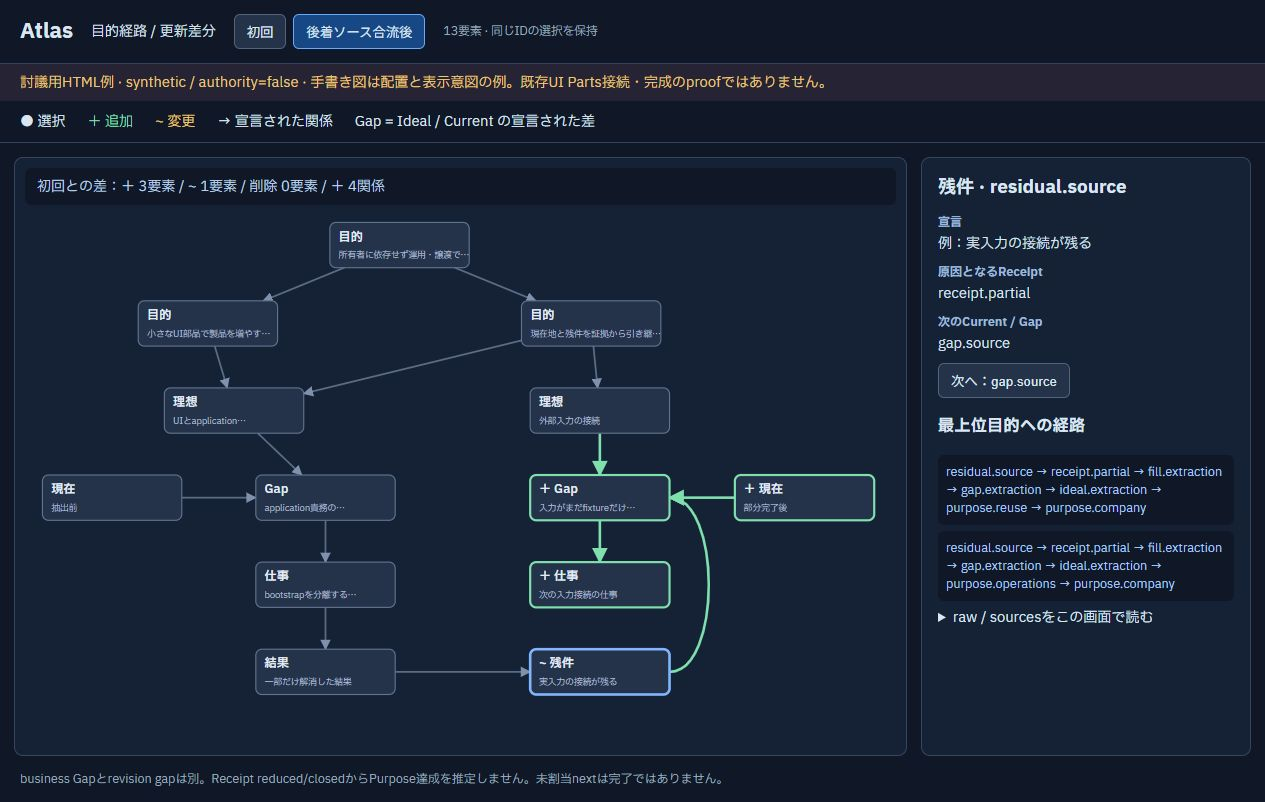
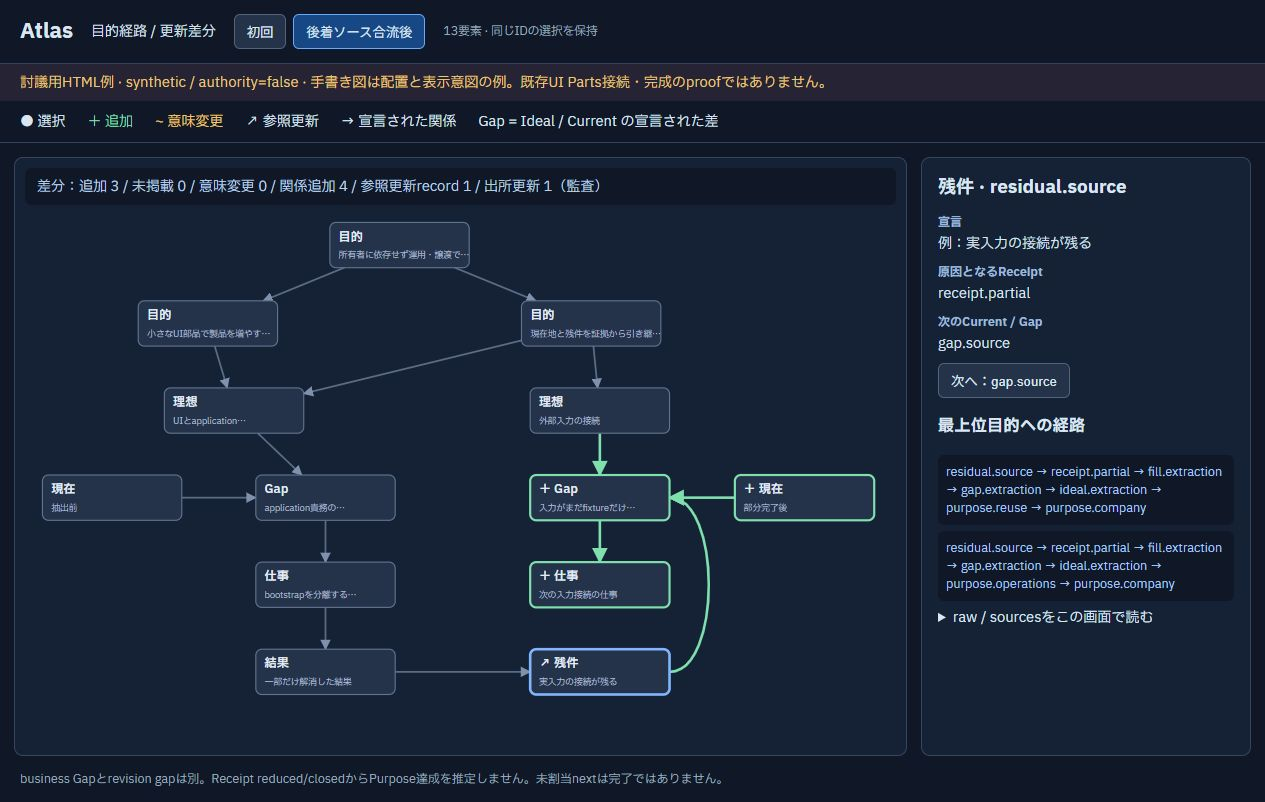
docs(atlas): distinguish meaning, relation and provenance changes in visual example

Changed region(s): [[0.0308, 0.2182, 0.4933, 0.2494], [0.1233, 0.1247, 0.5549, 0.1559], [0.4316, 0.8105, 0.4625, 0.8416]]

diff --git a/docs/proposals/atlas-purpose-ui-20261007/view.example.html b/docs/proposals/atlas-purpose-ui-20261007/view.example.html
@@ -1,10 +1,10 @@
 <!doctype html><html lang="ja"><meta charset="utf-8"><meta name="viewport" content="width=device-width"><title>Atlas · Purpose経路と差分の議論例</title>
 <style>
-*{box-sizing:border-box}body{margin:0;background:#101827;color:#dce6f2;font:14px/1.5 system-ui,sans-serif}header{padding:14px 20px;border-bottom:1px solid #34445a;display:flex;align-items:center;gap:18px}h1{font-size:21px;margin:0}button{color:inherit;background:#24334a;border:1px solid #53647a;border-radius:6px;padding:7px 12px;cursor:pointer}button[aria-pressed=true]{background:#174785;border-color:#69a9fb}small,.muted{color:#9bacbf}.notice{padding:8px 20px;color:#ebc97b;background:#262334}.legend{padding:10px 20px;display:flex;gap:22px;border-bottom:1px solid #34445a}.add{color:#7fdfad}.change{color:#f2cb73}.layout{display:grid;grid-template-columns:minmax(650px,1fr) 330px;gap:14px;padding:14px}.stage,aside{background:#152135;border:1px solid #35465e;border-radius:9px}.stage{padding:10px}svg{width:100%;display:block}aside{padding:16px;min-width:0}h2{font-size:18px;margin:0 0 12px}.field{margin:9px 0}.field b{display:block;color:#9eb9da;font-size:12px}.field p{margin:2px 0;overflow-wrap:anywhere}.path{font-size:12px;color:#a9ccff;padding:8px;background:#101827;border-radius:6px;margin:6px 0}pre{white-space:pre-wrap;overflow-wrap:anywhere;font-size:11px;max-height:170px;overflow:auto;background:#0b1320;padding:8px}.edge{fill:none;stroke:#5b6d85;stroke-width:2}.edge.added{stroke:#7fdfad;stroke-width:3}.node rect{fill:#24334a;stroke:#60738f;stroke-width:1.3}.node.added rect{stroke:#7fdfad;stroke-width:2.5}.node.changed rect{stroke:#f2cb73;stroke-width:2.5}.node.selected rect{stroke:#81b6ff;stroke-width:3}.node text{fill:#e3edf8;pointer-events:none}.node{cursor:pointer}.kind{font-size:14px;font-weight:600}.id{font-size:10px;fill:#afbed0!important}.tag{font-size:11px;fill:#7fdfad!important}.delta{padding:8px 12px;color:#bed1e8;background:#101827;border-radius:6px}.row{display:flex;gap:7px;flex-wrap:wrap}footer{padding:0 20px 14px;color:#9bacbf;font-size:12px}@media(max-width:1000px){.layout{grid-template-columns:1fr}.stage{min-width:0}}
+*{box-sizing:border-box}body{margin:0;background:#101827;color:#dce6f2;font:14px/1.5 system-ui,sans-serif}header{padding:14px 20px;border-bottom:1px solid #34445a;display:flex;align-items:center;gap:18px}h1{font-size:21px;margin:0}button{color:inherit;background:#24334a;border:1px solid #53647a;border-radius:6px;padding:7px 12px;cursor:pointer}button[aria-pressed=true]{background:#174785;border-color:#69a9fb}small,.muted{color:#9bacbf}.notice{padding:8px 20px;color:#ebc97b;background:#262334}.legend{padding:10px 20px;display:flex;gap:22px;border-bottom:1px solid #34445a}.add{color:#7fdfad}.change{color:#f2cb73}.layout{display:grid;grid-template-columns:minmax(650px,1fr) 330px;gap:14px;padding:14px}.stage,aside{background:#152135;border:1px solid #35465e;border-radius:9px}.stage{padding:10px}svg{width:100%;display:block}aside{padding:16px;min-width:0}h2{font-size:18px;margin:0 0 12px}.field{margin:9px 0}.field b{display:block;color:#9eb9da;font-size:12px}.field p{margin:2px 0;overflow-wrap:anywhere}.path{font-size:12px;color:#a9ccff;padding:8px;background:#101827;border-radius:6px;margin:6px 0}pre{white-space:pre-wrap;overflow-wrap:anywhere;font-size:11px;max-height:170px;overflow:auto;background:#0b1320;padding:8px}.edge{fill:none;stroke:#5b6d85;stroke-width:2}.edge.added{stroke:#7fdfad;stroke-width:3}.node rect{fill:#24334a;stroke:#60738f;stroke-width:1.3}.node.added rect{stroke:#7fdfad;stroke-width:2.5}.node.changed rect{stroke:#f2cb73;stroke-width:2.5}.node.relation rect{stroke:#c4b5fd;stroke-width:2.5}.node.selected rect{stroke:#81b6ff;stroke-width:3}.node text{fill:#e3edf8;pointer-events:none}.node{cursor:pointer}.kind{font-size:14px;font-weight:600}.id{font-size:10px;fill:#afbed0!important}.tag{font-size:11px;fill:#7fdfad!important}.delta{padding:8px 12px;color:#bed1e8;background:#101827;border-radius:6px}.row{display:flex;gap:7px;flex-wrap:wrap}footer{padding:0 20px 14px;color:#9bacbf;font-size:12px}@media(max-width:1000px){.layout{grid-template-columns:1fr}.stage{min-width:0}}
 </style>
 <header><h1>Atlas</h1><span>目的経路 / 更新差分</span><div class="row"><button id="before" aria-pressed="true">初回</button><button id="after" aria-pressed="false">後着ソース合流後</button></div><small id="state"></small></header>
 <div class="notice">討議用HTML例 · synthetic / authority=false · 手書き図は配置と表示意図の例。既存UI Parts接続・完成のproofではありません。</div>
-<div class="legend"><span>● 選択</span><span class="add">＋ 追加</span><span class="change">~ 変更</span><span>→ 宣言された関係</span><span>Gap = Ideal / Current の宣言された差</span></div>
+<div class="legend"><span>● 選択</span><span class="add">＋ 追加</span><span class="change">~ 意味変更</span><span>↗ 参照更新</span><span>→ 宣言された関係</span><span>Gap = Ideal / Current の宣言された差</span></div>
 <div class="layout"><section class="stage"><div id="delta" class="delta"></div><svg viewBox="0 0 1000 620" aria-label="Purpose closureの関係図"><defs><marker id="arrow" viewBox="0 0 10 10" refX="9" refY="5" markerWidth="6" markerHeight="6" orient="auto-start-reverse"><path d="M0,0 L10,5 L0,10" fill="#7f91ac"/></marker><marker id="new-arrow" viewBox="0 0 10 10" refX="9" refY="5" markerWidth="6" markerHeight="6" orient="auto-start-reverse"><path d="M0,0 L10,5 L0,10" fill="#7fdfad"/></marker></defs><g id="edges"></g><g id="nodes"></g></svg></section><aside><h2 id="selected"></h2><div id="fields"></div><h3>最上位目的への経路</h3><div id="paths"></div><details><summary>raw / sourcesをこの画面で読む</summary><pre id="raw"></pre></details></aside></div>
 <footer>business Gapとrevision gapは別。Receipt reduced/closedからPurpose達成を推定しません。未割当nextは完了ではありません。</footer>
 <script>
@@ -14,13 +14,15 @@ const coords={'purpose.company':[350,20],'purpose.reuse':[130,110],'purpose.oper
 const ns='http://www.w3.org/2000/svg',w=160,h=52;let mode=0,selected='residual.source';
 const byId=rows=>new Map(rows.map(r=>[r.id,r]));
 const relations=rows=>{const e=[];for(const n of rows){if(n.kind==='purpose')for(const p of n.parents)e.push([p,n.id,'parent']);if(n.kind==='ideal')for(const p of n.purposes)e.push([p,n.id,'ideal']);if(n.kind==='gap'){e.push([n.current,n.id,'current'],[n.ideal,n.id,'gap'])}if(n.kind==='fill')for(const g of n.gaps)e.push([g,n.id,'fill']);if(n.kind==='receipt')e.push([n.fill,n.id,'receipt']);if(n.kind==='residual'){e.push([n.receipt,n.id,'residual']);for(const q of n.next)e.push([n.id,q,'next'])}}return e;};
+const refFields={purpose:['parents'],ideal:['purposes'],current:[],gap:['current','ideal'],fill:['gaps'],receipt:['fill'],residual:['receipt','next']};const meaning=n=>JSON.stringify(Object.fromEntries(Object.entries(n).filter(([k])=>k!=='sources'&&!refFields[n.kind].includes(k))));const refs=n=>JSON.stringify(refFields[n.kind].map(k=>[k,n[k]]));
 const key=e=>JSON.stringify(e),before=byId(snapshots[0]),after=byId(snapshots[1]),oldEdges=new Set(relations(snapshots[0]).map(key));
-const added=new Set([...after.keys()].filter(id=>!before.has(id))),removed=new Set([...before.keys()].filter(id=>!after.has(id))),changed=new Set([...after.keys()].filter(id=>before.has(id)&&JSON.stringify(after.get(id))!==JSON.stringify(before.get(id))));
+const relChanged=new Set([...after.keys()].filter(id=>before.has(id)&&refs(after.get(id))!==refs(before.get(id))));const sourceChanged=new Set([...after.keys()].filter(id=>before.has(id)&&JSON.stringify(after.get(id).sources)!==JSON.stringify(before.get(id).sources)));
+const added=new Set([...after.keys()].filter(id=>!before.has(id))),removed=new Set([...before.keys()].filter(id=>!after.has(id))),changed=new Set([...after.keys()].filter(id=>before.has(id)&&meaning(after.get(id))!==meaning(before.get(id))));
 const make=(tag,attrs,parent)=>{const e=document.createElementNS(ns,tag);for(const[k,v]of Object.entries(attrs))e.setAttribute(k,v);parent.append(e);return e};
 function field(title,value){const box=document.createElement('div');box.className='field';const b=document.createElement('b');b.textContent=title;const p=document.createElement('p');p.textContent=value;box.append(b,p);document.querySelector('#fields').append(box)}
 function pathToPurpose(rows,start){const nodes=byId(rows),pending=[[start]],out=[];while(pending.length){const trail=pending.pop(),n=nodes.get(trail.at(-1));if(!n)continue;let next=n.kind==='purpose'?n.parents:n.kind==='ideal'?n.purposes:n.kind==='current'?rows.filter(q=>q.kind==='gap'&&q.current===n.id).map(q=>q.id):n.kind==='gap'?[n.ideal]:n.kind==='fill'?n.gaps:n.kind==='receipt'?[n.fill]:[n.receipt];if(n.kind==='purpose'&&!next.length)out.push(trail);for(const target of next)if(!trail.includes(target))pending.push([...trail,target]);}return out}
 function inspector(rows){const n=byId(rows).get(selected);document.querySelector('#fields').replaceChildren();document.querySelector('#paths').replaceChildren();document.querySelector('#selected').textContent=n?labels[n.kind]+' · '+n.id:'選択対象はこのsnapshotに存在しません';document.querySelector('#raw').textContent=n?JSON.stringify(n,null,2):selected;if(!n)return;field('宣言',n.label);const nodes=byId(rows);if(n.kind==='gap'){field('Current',nodes.get(n.current)?.value??n.current);field('Ideal',nodes.get(n.ideal)?.value??n.ideal);field('宣言されたdelta',n.delta);field('担当 / 必要なproof',n.owner+' / '+n.proof)}if(n.kind==='fill')field('対象Gap / scope',n.gaps.join(', ')+' / '+n.scope.join('、'));if(n.kind==='receipt')field('Fill / 結果 / evidence',n.fill+' / '+n.status+' / '+n.evidence.join(', '));if(n.kind==='residual'){field('原因となるReceipt',n.receipt);field('次のCurrent / Gap',n.next.length?n.next.join(', '):'未割当（完了ではない）');for(const target of n.next){const b=document.createElement('button');b.textContent='次へ：'+target;b.onclick=()=>{selected=target;render()};document.querySelector('#fields').append(b)}}if(n.kind==='current'||n.kind==='ideal')field(n.kind==='current'?'Current':'Ideal',n.value);for(const trail of pathToPurpose(rows,n.id)){const p=document.createElement('div');p.className='path';p.textContent=trail.join(' → ');document.querySelector('#paths').append(p)}}
-function render(){const rows=snapshots[mode];document.querySelector('#before').setAttribute('aria-pressed',mode===0);document.querySelector('#after').setAttribute('aria-pressed',mode===1);document.querySelector('#state').textContent=rows.length+'要素 · 同じIDの選択を保持';document.querySelector('#delta').textContent=mode?'初回との差：＋ '+added.size+'要素 / ~ '+changed.size+'要素 / 削除 '+removed.size+'要素 / ＋ '+relations(rows).filter(e=>!oldEdges.has(key(e))).length+'関係':'初回：Residual.next は未割当。後着データをまだ描かない。';const edges=document.querySelector('#edges'),nodes=document.querySelector('#nodes');edges.replaceChildren();nodes.replaceChildren();for(const edge of relations(rows)){const[a,b,kind]=edge,pa=coords[a],pb=coords[b];if(!pa||!pb)continue;const fresh=mode&&!oldEdges.has(key(edge));let d;if(kind==='next')d='M '+(pa[0]+w)+','+(pa[1]+h/2)+' C 800,'+(pa[1]+h/2)+' 800,'+(pb[1]+h/2)+' '+(pb[0]+w)+','+(pb[1]+h/2);else{const dx=pb[0]-pa[0],dy=pb[1]-pa[1],scale=1/Math.max(Math.abs(dx)/(w/2),Math.abs(dy)/(h/2));const x1=pa[0]+w/2+dx*scale,y1=pa[1]+h/2+dy*scale,x2=pb[0]+w/2-dx*scale,y2=pb[1]+h/2-dy*scale;d='M '+x1+','+y1+' L '+x2+','+y2;}make('path',{d,class:'edge'+(fresh?' added':''),'marker-end':fresh?'url(#new-arrow)':'url(#arrow)'},edges)}
-for(const n of rows){const p=coords[n.id];if(!p)continue;const state=mode&&added.has(n.id)?'added':mode&&changed.has(n.id)?'changed':'';const g=make('g',{class:'node '+state+(selected===n.id?' selected':''),transform:'translate('+p.join(',')+')',role:'button',tabindex:'0','aria-label':n.id},nodes);make('rect',{width:w,height:h,rx:7},g);const t=make('text',{x:10,y:21,class:'kind'},g);t.textContent=(state==='added'?'＋ ':state==='changed'?'~ ':'')+labels[n.kind];const id=make('text',{x:10,y:41,class:'id'},g);id.textContent=n.label.replace(/^例[：:]/,'').slice(0,14)+(n.label.length>14?'…':'');const title=make('title',{},g);title.textContent=n.label+' / '+n.id;g.onclick=()=>{selected=n.id;render()};g.onkeydown=e=>{if(e.key==='Enter'||e.key===' '){e.preventDefault();selected=n.id;render()}};}inspector(rows)}
+function render(){const rows=snapshots[mode];document.querySelector('#before').setAttribute('aria-pressed',mode===0);document.querySelector('#after').setAttribute('aria-pressed',mode===1);document.querySelector('#state').textContent=rows.length+'要素 · 同じIDの選択を保持';document.querySelector('#delta').textContent=mode?'差分：追加 '+added.size+' / 未掲載 '+removed.size+' / 意味変更 '+changed.size+' / 関係追加 '+relations(rows).filter(e=>!oldEdges.has(key(e))).length+' / 参照更新record '+relChanged.size+' / 出所更新 '+sourceChanged.size+'（監査）':'初回：Residual.next は未割当。後着データをまだ描かない。';const edges=document.querySelector('#edges'),nodes=document.querySelector('#nodes');edges.replaceChildren();nodes.replaceChildren();for(const edge of relations(rows)){const[a,b,kind]=edge,pa=coords[a],pb=coords[b];if(!pa||!pb)continue;const fresh=mode&&!oldEdges.has(key(edge));let d;if(kind==='next')d='M '+(pa[0]+w)+','+(pa[1]+h/2)+' C 800,'+(pa[1]+h/2)+' 800,'+(pb[1]+h/2)+' '+(pb[0]+w)+','+(pb[1]+h/2);else{const dx=pb[0]-pa[0],dy=pb[1]-pa[1],scale=1/Math.max(Math.abs(dx)/(w/2),Math.abs(dy)/(h/2));const x1=pa[0]+w/2+dx*scale,y1=pa[1]+h/2+dy*scale,x2=pb[0]+w/2-dx*scale,y2=pb[1]+h/2-dy*scale;d='M '+x1+','+y1+' L '+x2+','+y2;}make('path',{d,class:'edge'+(fresh?' added':''),'marker-end':fresh?'url(#new-arrow)':'url(#arrow)'},edges)}
+for(const n of rows){const p=coords[n.id];if(!p)continue;const state=mode&&added.has(n.id)?'added':mode&&changed.has(n.id)?'changed':mode&&relChanged.has(n.id)?'relation':'';const g=make('g',{class:'node '+state+(selected===n.id?' selected':''),transform:'translate('+p.join(',')+')',role:'button',tabindex:'0','aria-label':n.id},nodes);make('rect',{width:w,height:h,rx:7},g);const t=make('text',{x:10,y:21,class:'kind'},g);t.textContent=(state==='added'?'＋ ':state==='changed'?'~ ':state==='relation'?'↗ ':'')+labels[n.kind];const id=make('text',{x:10,y:41,class:'id'},g);id.textContent=n.label.replace(/^例[：:]/,'').slice(0,14)+(n.label.length>14?'…':'');const title=make('title',{},g);title.textContent=n.label+' / '+n.id;g.onclick=()=>{selected=n.id;render()};g.onkeydown=e=>{if(e.key==='Enter'||e.key===' '){e.preventDefault();selected=n.id;render()}};}inspector(rows)}
 document.querySelector('#before').onclick=()=>{mode=0;render()};document.querySelector('#after').onclick=()=>{mode=1;render()};render();
 </script></html>
